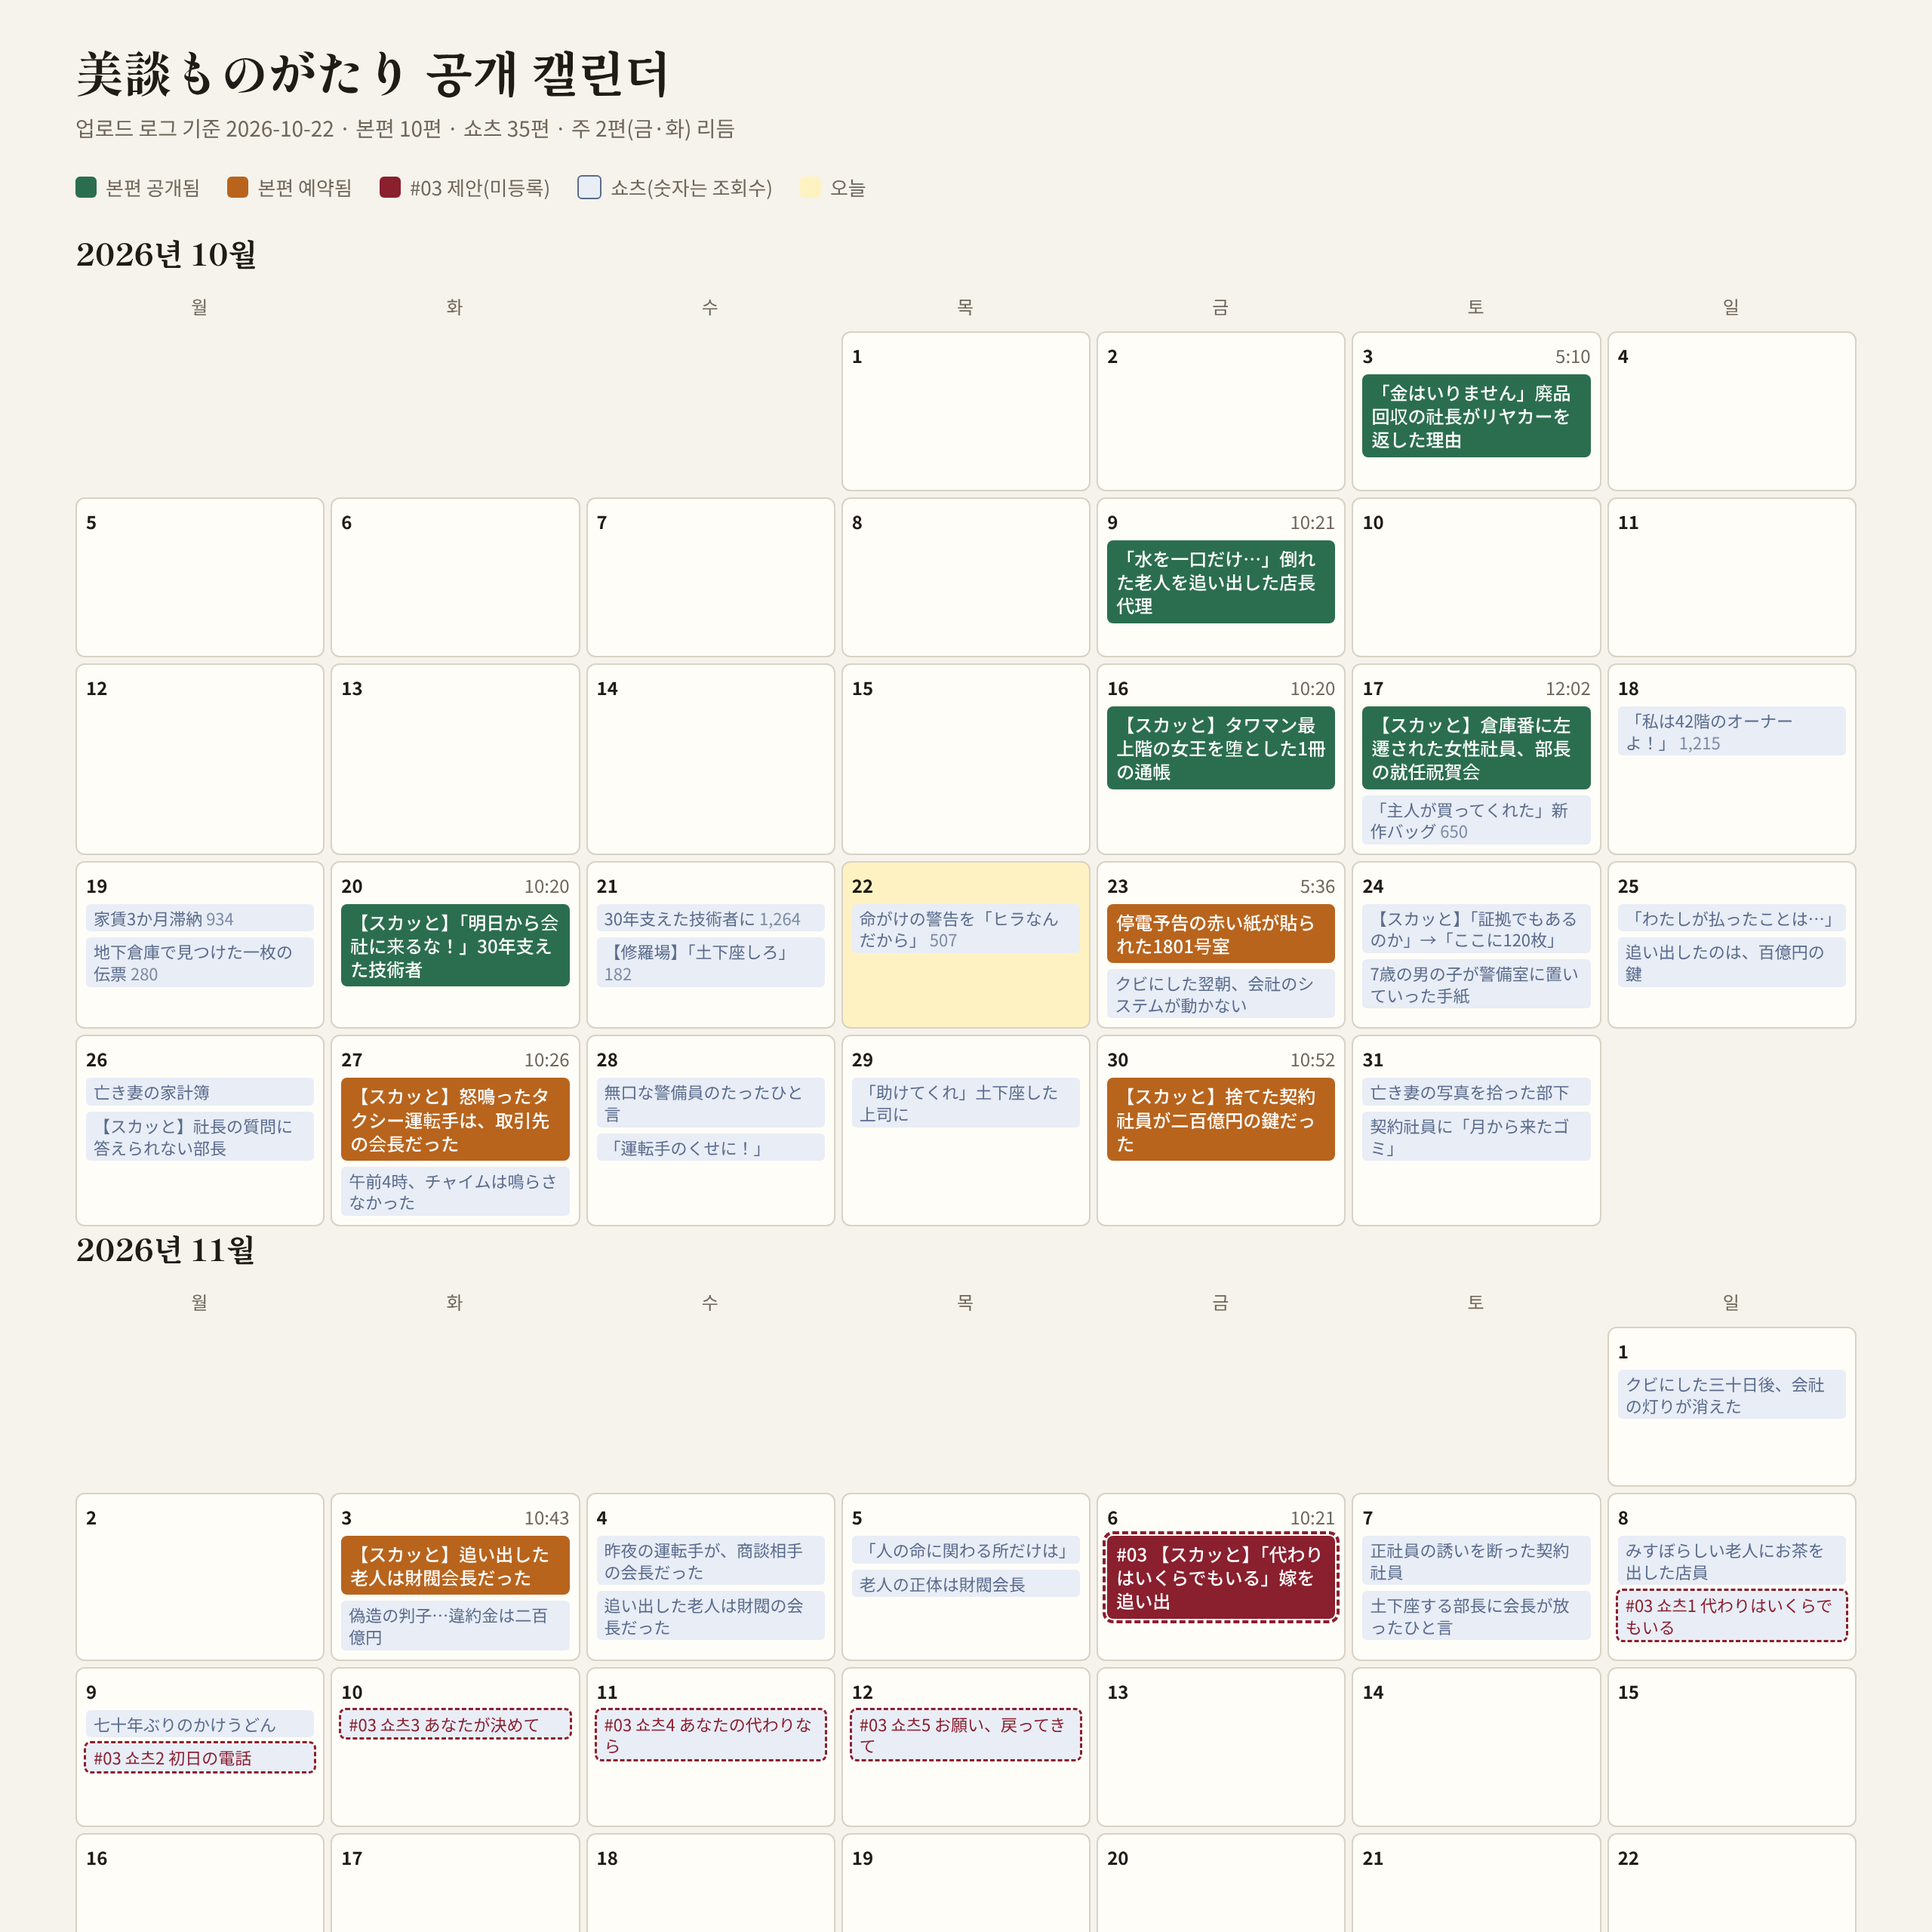
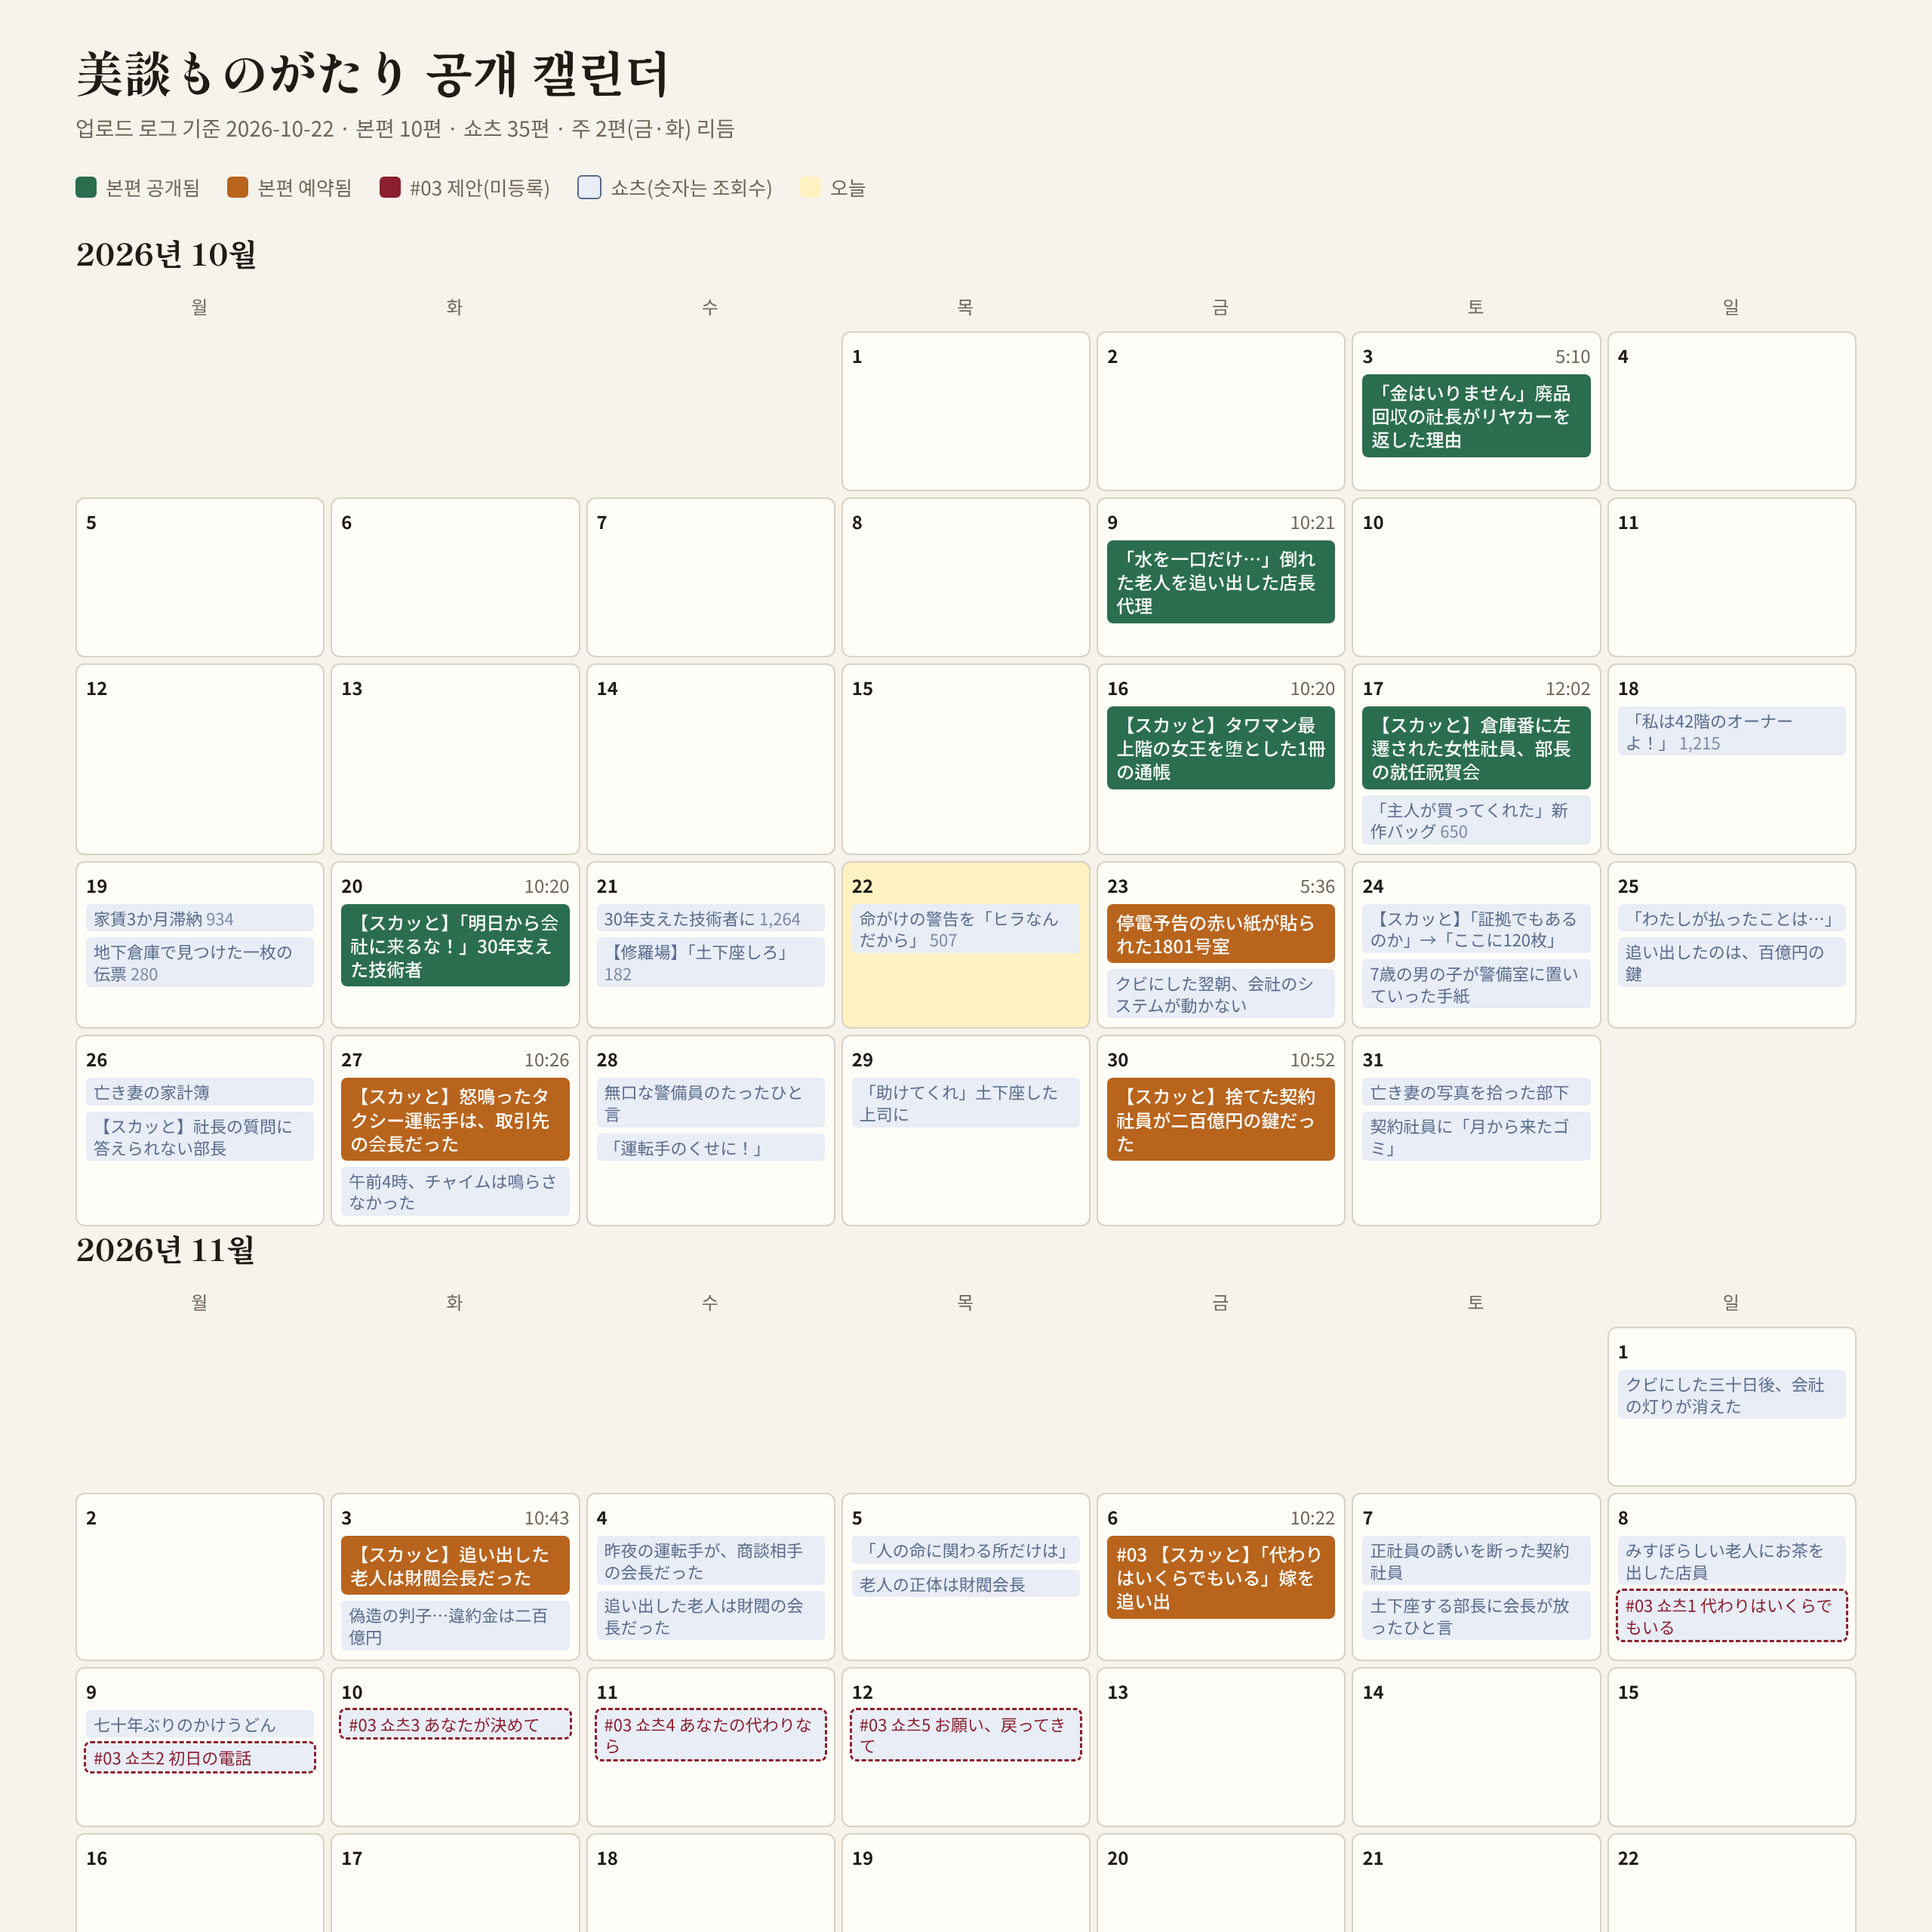
#03 본편 예약 완료 기록(11/6 20:00, youtu.be/WLry4qoeVpo) + 쇼츠 설명란 본편 링크 채움 + 캘린더 갱신

Changed region(s): [[0.5625, 0.7812, 0.7188, 0.8438]]

diff --git a/docs/채널-공개캘린더.html b/docs/채널-공개캘린더.html
@@ -64,7 +64,7 @@ td.n{font-variant-numeric:tabular-nums;text-align:right}
   <p class="note">본편 리듬은 금·화, 쇼츠는 거의 매일 1~2편. #03은 기예약 4편 뒤 첫 빈 금요일(11/6)에 두고, 쇼츠 5편은 기예약이 2편인 날(11/7)을 피해 11/8~11/12에 하루 1편씩 배치했습니다. 공개 시각은 전부 20:00 JST(쇼츠 평일 19:00·주말 12:00)로 가정했습니다.</p>
 </div>
 <script>
-const MAIN=[["2026-10-03", "pub", "「金はいりません」廃品回収の社長がリヤカーを返した理由", "5:10", null], ["2026-10-09", "pub", "「水を一口だけ…」倒れた老人を追い出した店長代理", "10:21", null], ["2026-10-16", "pub", "【スカッと】タワマン最上階の女王を堕とした1冊の通帳", "10:20", null], ["2026-10-17", "pub", "【スカッと】倉庫番に左遷された女性社員、部長の就任祝賀会", "12:02", null], ["2026-10-20", "pub", "【スカッと】「明日から会社に来るな！」30年支えた技術者", "10:20", null], ["2026-10-23", "res", "停電予告の赤い紙が貼られた1801号室", "5:36", null], ["2026-10-27", "res", "【スカッと】怒鳴ったタクシー運転手は、取引先の会長だった", "10:26", null], ["2026-10-30", "res", "【スカッと】捨てた契約社員が二百億円の鍵だった", "10:52", null], ["2026-11-03", "res", "【スカッと】追い出した老人は財閥会長だった", "10:43", null], ["2026-11-06", "prop", "#03 【スカッと】「代わりはいくらでもいる」嫁を追い出", "10:21", null]];
+const MAIN=[["2026-10-03", "pub", "「金はいりません」廃品回収の社長がリヤカーを返した理由", "5:10", null], ["2026-10-09", "pub", "「水を一口だけ…」倒れた老人を追い出した店長代理", "10:21", null], ["2026-10-16", "pub", "【スカッと】タワマン最上階の女王を堕とした1冊の通帳", "10:20", null], ["2026-10-17", "pub", "【スカッと】倉庫番に左遷された女性社員、部長の就任祝賀会", "12:02", null], ["2026-10-20", "pub", "【スカッと】「明日から会社に来るな！」30年支えた技術者", "10:20", null], ["2026-10-23", "res", "停電予告の赤い紙が貼られた1801号室", "5:36", null], ["2026-10-27", "res", "【スカッと】怒鳴ったタクシー運転手は、取引先の会長だった", "10:26", null], ["2026-10-30", "res", "【スカッと】捨てた契約社員が二百億円の鍵だった", "10:52", null], ["2026-11-03", "res", "【スカッと】追い出した老人は財閥会長だった", "10:43", null], ["2026-11-06", "res", "#03 【スカッと】「代わりはいくらでもいる」嫁を追い出", "10:22", null]];
 const SHORTS={"2026-10-17": [["「主人が買ってくれた」新作バッグ", 650, false]], "2026-10-18": [["「私は42階のオーナーよ！」", 1215, false]], "2026-10-19": [["家賃3か月滞納", 934, false], ["地下倉庫で見つけた一枚の伝票", 280, false]], "2026-10-21": [["30年支えた技術者に", 1264, false], ["【修羅場】「土下座しろ」", 182, false]], "2026-10-22": [["命がけの警告を「ヒラなんだから」", 507, false]], "2026-10-23": [["クビにした翌朝、会社のシステムが動かない", null, false]], "2026-10-24": [["【スカッと】「証拠でもあるのか」→「ここに120枚」", null, false], ["7歳の男の子が警備室に置いていった手紙", null, false]], "2026-10-25": [["「わたしが払ったことは…」", null, false], ["追い出したのは、百億円の鍵", null, false]], "2026-10-26": [["亡き妻の家計簿", null, false], ["【スカッと】社長の質問に答えられない部長", null, false]], "2026-10-27": [["午前4時、チャイムは鳴らさなかった", null, false]], "2026-10-28": [["無口な警備員のたったひと言", null, false], ["「運転手のくせに！」", null, false]], "2026-10-29": [["「助けてくれ」土下座した上司に", null, false]], "2026-10-31": [["亡き妻の写真を拾った部下", null, false], ["契約社員に「月から来たゴミ」", null, false]], "2026-11-01": [["クビにした三十日後、会社の灯りが消えた", null, false]], "2026-11-03": [["偽造の判子…違約金は二百億円", null, false]], "2026-11-04": [["昨夜の運転手が、商談相手の会長だった", null, false], ["追い出した老人は財閥の会長だった", null, false]], "2026-11-05": [["「人の命に関わる所だけは」", null, false], ["老人の正体は財閥会長", null, false]], "2026-11-07": [["正社員の誘いを断った契約社員", null, false], ["土下座する部長に会長が放ったひと言", null, false]], "2026-11-08": [["みすぼらしい老人にお茶を出した店員", null, false], ["#03 쇼츠1 代わりはいくらでもいる", null, true]], "2026-11-09": [["七十年ぶりのかけうどん", null, false], ["#03 쇼츠2 初日の電話", null, true]], "2026-11-10": [["#03 쇼츠3 あなたが決めて", null, true]], "2026-11-11": [["#03 쇼츠4 あなたの代わりなら", null, true]], "2026-11-12": [["#03 쇼츠5 お願い、戻ってきて", null, true]]};
 const TODAY="2026-10-22", DOW=["월","화","수","목","금","토","일"];
 const mainBy={}; MAIN.forEach(m=>mainBy[m[0]]=m);

diff --git a/productions/ryokan-yome-ja/14_등록자료.md b/productions/ryokan-yome-ja/14_등록자료.md
@@ -1,6 +1,6 @@
 # #03 『老舗旅館の嫁』 YouTube 등록 자료 (복사용 · 2026-10-22 확정)
 
-모든 제목은 휴대폰 피드 기준(본편 40자 이내·앞 20자 후크, 쇼츠 20자 이내)입니다. 「본편 링크」 자리는 본편 예약 등록 후 생성되는 youtu.be 주소로 바꿔 주세요.
+모든 제목은 휴대폰 피드 기준(본편 40자 이내·앞 20자 후크, 쇼츠 20자 이내)입니다. 본편 링크: https://youtu.be/WLry4qoeVpo (2026-10-22 예약 완료, 11/6 20:00 공개)
 
 ---
 
@@ -69,7 +69,7 @@
 설명
 ```
 「あんたの代わりなんて、いくらでもいるんだから」——追い出された嫁の返事は。
-本編はこちら👉 (본편 링크)
+本編はこちら👉 https://youtu.be/WLry4qoeVpo
 ※本作はAIで制作したフィクションです。実在の人物・団体とは関係ありません。
 #スカッとする話 #嫁姑 #老舗旅館 #朗読ドラマ #美談ものがたり #Shorts
 ```
@@ -82,7 +82,7 @@
 설명
 ```
 繁忙期初日、朝一番の電話。「私たちが信頼して契約したのは、月見荘さんではありません」
-本編はこちら👉 (본편 링크)
+本編はこちら👉 https://youtu.be/WLry4qoeVpo
 ※本作はAIで制作したフィクションです。実在の人物・団体とは関係ありません。
 #スカッとする話 #因果応報 #老舗旅館 #朗読ドラマ #美談ものがたり #Shorts
 ```
@@ -95,7 +95,7 @@
 설명
 ```
 五年間、給料ゼロで働いた嫁に、温泉街一の旅館の社長が言ったこと。
-本編はこちら👉 (본편 링크)
+本編はこちら👉 https://youtu.be/WLry4qoeVpo
 ※本作はAIで制作したフィクションです。実在の人物・団体とは関係ありません。
 #感動する話 #若女将 #老舗旅館 #朗読ドラマ #美談ものがたり #Shorts
 ```
@@ -108,7 +108,7 @@
 설명
 ```
 「うちで働きたい、ですか」——追い出した小姑に、嫁が返した一言。
-本編はこちら👉 (본편 링크)
+本編はこちら👉 https://youtu.be/WLry4qoeVpo
 ※本作はAIで制作したフィクションです。実在の人物・団体とは関係ありません。
 #スカッとする話 #因果応報 #嫁姑 #朗読ドラマ #美談ものがたり #Shorts
 ```
@@ -121,7 +121,7 @@
 설명
 ```
 百年の帳場に一人座る女将からの電話。嫁の答えは——。
-本編はこちら👉 (본편 링크)
+本編はこちら👉 https://youtu.be/WLry4qoeVpo
 ※本作はAIで制作したフィクションです。実在の人物・団体とは関係ありません。
 #感動実話 #嫁姑 #老舗旅館 #朗読ドラマ #美談ものがたり #Shorts
 ```

diff --git a/docs/채널-업로드로그.md b/docs/채널-업로드로그.md
@@ -16,7 +16,7 @@
 | 2026-10-27 | 화 | 예약 | 【スカッと】怒鳴ったタクシー運転手は、取引先の会長だった | 10:26 | |
 | 2026-10-30 | 금 | 예약 | 【スカッと】捨てた契約社員が二百億円の鍵だった | 10:52 | |
 | 2026-11-03 | 화 | 예약 | 【スカッと】追い出した老人は財閥会長だった | 10:43 | |
-| **2026-11-06** | **금** | **제안** | **#03 【スカッと】「代わりはいくらでもいる」嫁を追い出した旅館の3か月後** | 10:21 | 금·화 리듬의 다음 빈 칸. 썸네일 A/B/C 테스트 등록(A 일러스트 無給労働 · B 일러스트 海外客10倍 · C 실사 마이) |
+| 2026-11-06 | 금 | 예약 | #03 【スカッと】「代わりはいくらでもいる」嫁を追い出した旅館の3か月後 | 10:22 | youtu.be/WLry4qoeVpo · 20:00 예약 완료(2026-10-22) · 썸네일 A/B/C 테스트 · 엔딩(구독+시청자 맞춤) · 카드 3:35 地下倉庫·7:07 1801号室 |
 
 ## 쇼츠(예약·공개, 2026-10-22 기준 총 41편)
 | 날짜 | 요일 | 편수 | 내용 |
